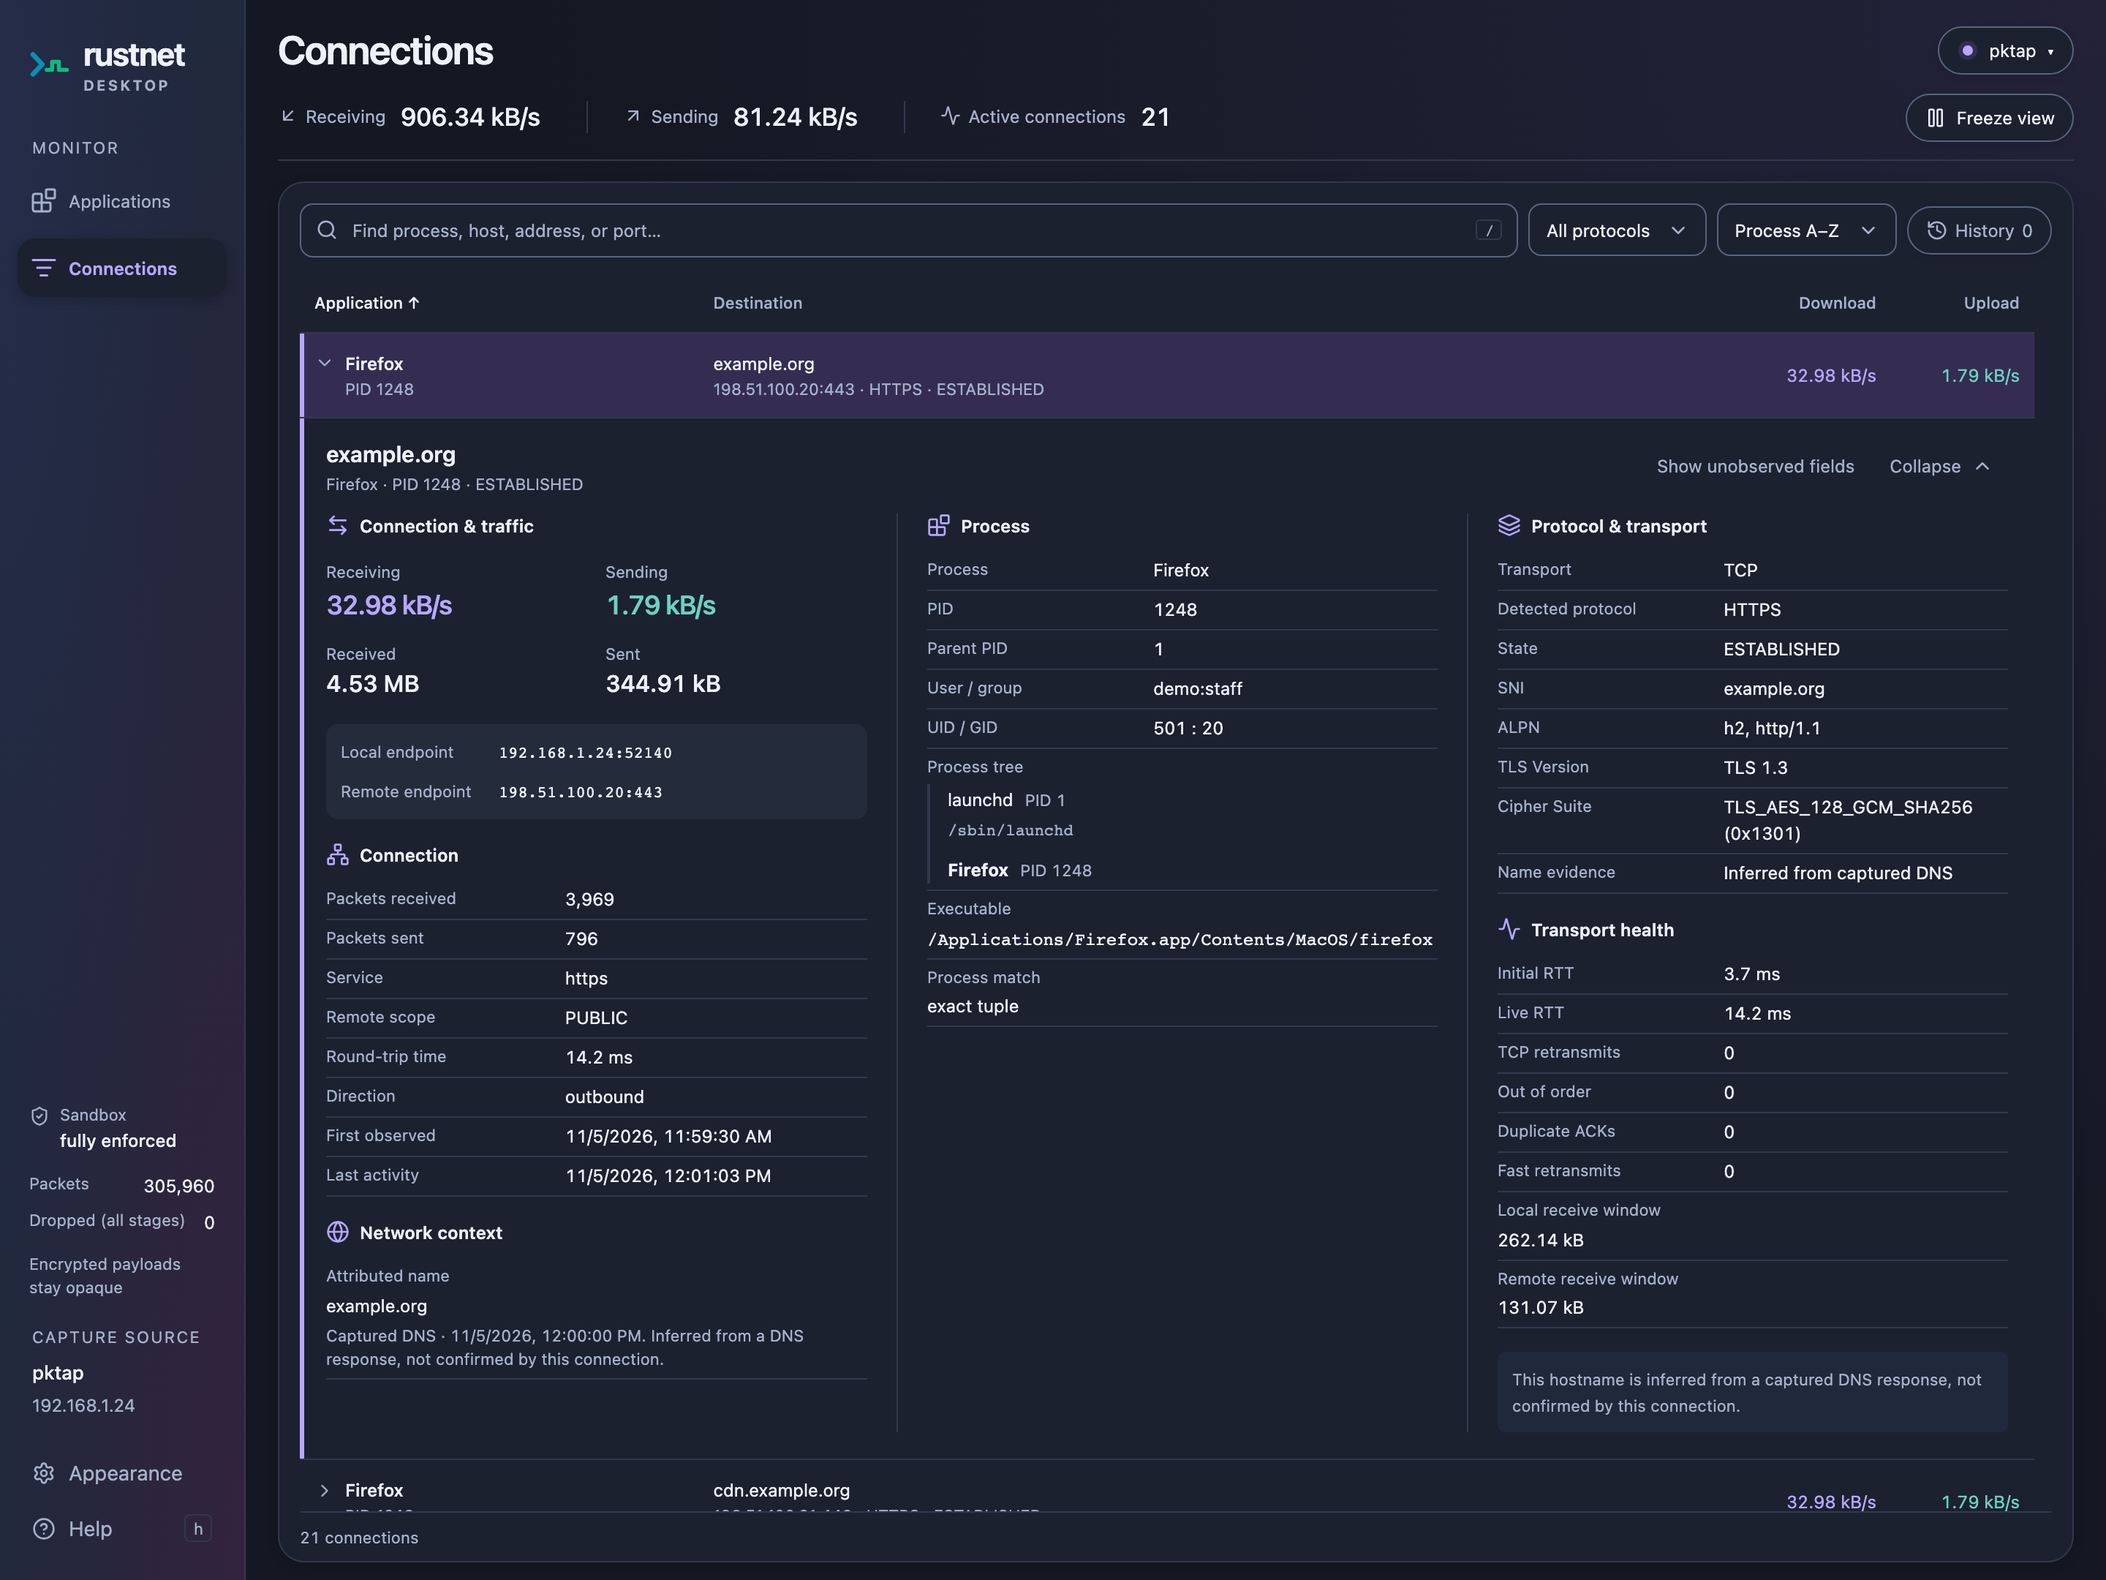
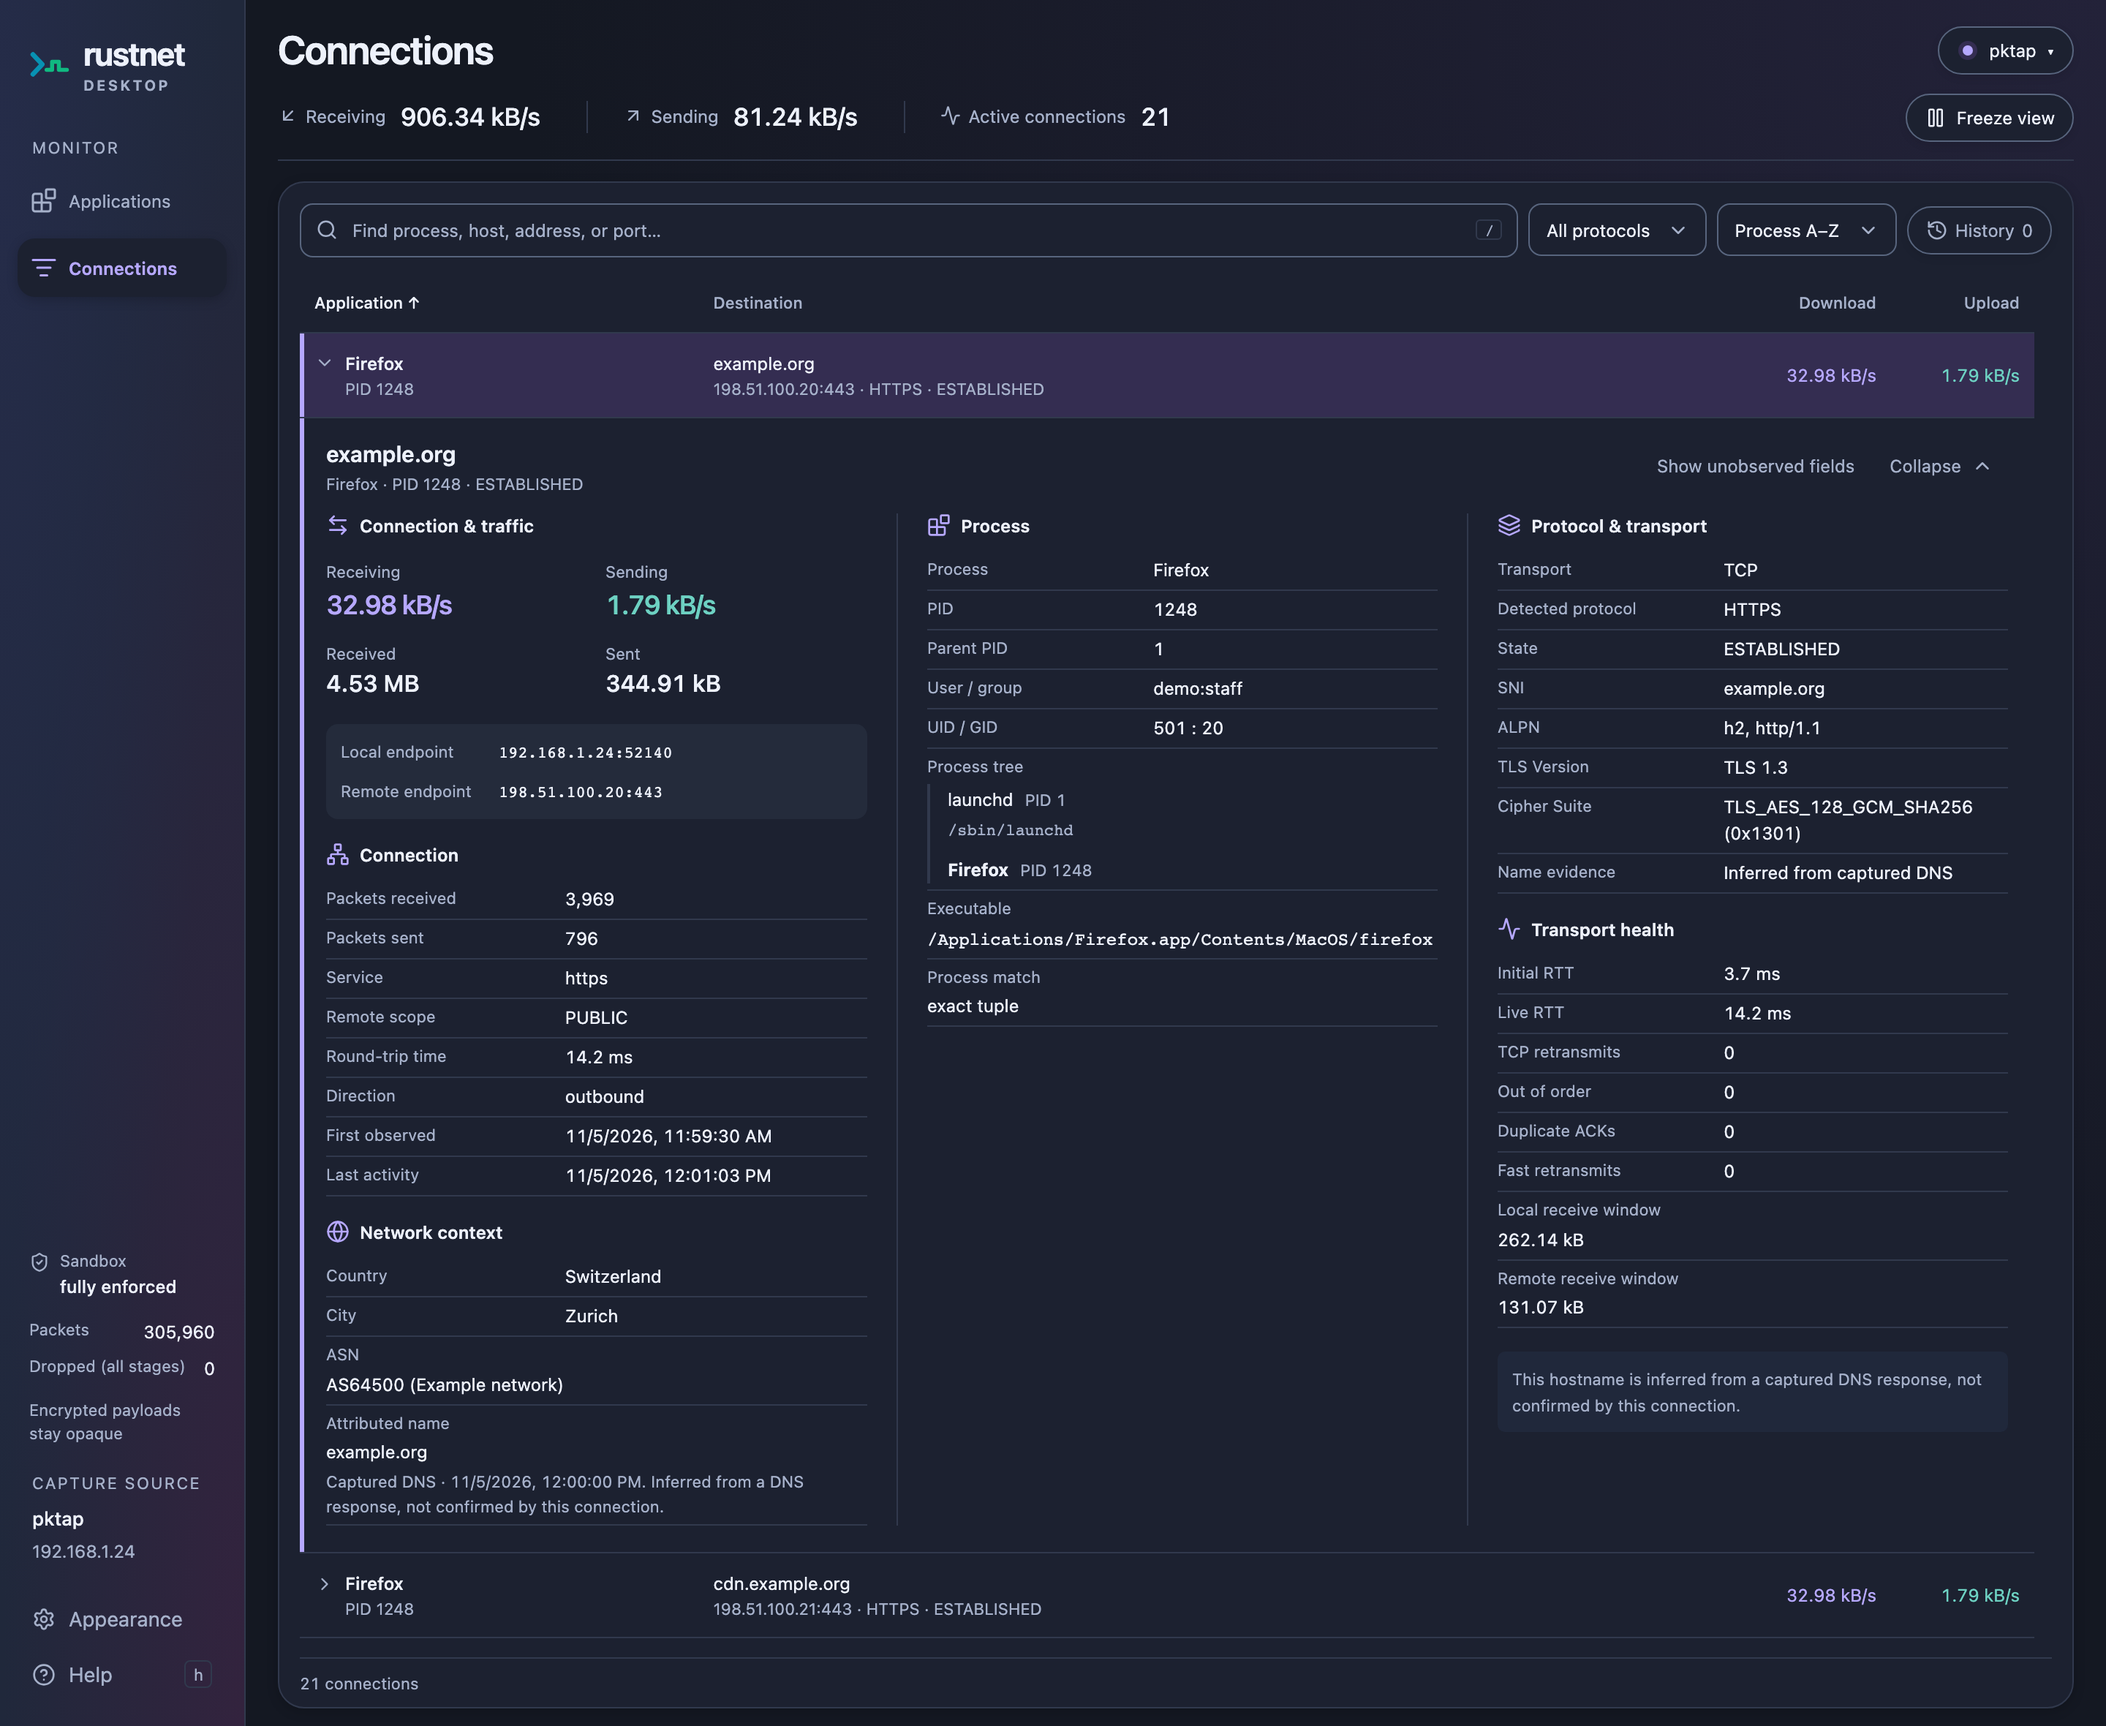
Show GeoIP details in README

diff --git a/README.ja.md b/README.ja.md
@@ -27,11 +27,11 @@
 <p align="center"><sub>Prism のライトテーマ。サンプル通信を使った Alpha プレビューです。</sub></p>
 
 <details>
-<summary>ダークテーマで接続の詳細を見る</summary>
+<summary>ダークテーマで接続の詳細と GeoIP 情報を見る</summary>
 
-![RustNet Desktop の Prism ダークテーマで、接続行の直下に通信量、プロセス、TLS、トランスポートの詳細を表示](docs/screenshots/connections-prism-dark.png)
+![RustNet Desktop の Prism ダークテーマで、接続行の直下に GeoIP の国、都市、ASN、プロセス、TLS 情報を表示](docs/screenshots/connections-prism-dark.png)
 
-<p align="center"><sub>接続行の直下で詳細を確認できます。サンプル通信を使った Alpha プレビューです。</sub></p>
+<p align="center"><sub>接続行の直下で通信量、TLS、GeoIP の国、都市、ネットワーク事業者を確認できます。サンプル通信と GeoIP データを使った Alpha プレビューです。</sub></p>
 
 </details>
 
@@ -45,9 +45,14 @@ Alpha プレビューでは、次の機能を利用できます。
 | 知りたいこと | 確認できる情報 |
 | --- | --- |
 | **どのアプリがネットワークを使っている？** | アプリ別のダウンロード・アップロード速度、アクティブ接続、直近 60 秒の通信グラフ。 |
-| **どこに接続している？** | プロセス、ホスト名、IP、ポート、プロトコルで検索できる接続一覧。任意の GeoIP データベースで位置情報も追加できます。 |
+| **どこに接続している？** | プロセス、ホスト名、IP、ポート、プロトコルで検索できる接続一覧。任意のローカル GeoIP データベースで、おおよその国・都市の位置情報とネットワーク事業者（ASN）を追加できます。 |
 | **接続で何が起きている？** | 接続行の直下に詳細を開き、エンジンが観測できる範囲で DNS、TLS、プロセスのメタデータ、通信の状態を確認できます。 |
 | **後から調査できる？** | 保持中の接続履歴を表示し、画面を一時停止したり、キャプチャ中に注釈付き PCAPNG を記録したりできます。 |
+
+**GeoIP 情報を追加：** キャプチャ設定の **Choose GeoIP folder** で GeoLite2
+データベースのフォルダーを選び、キャプチャを再開してください。macOS と Linux では
+`~/.local/share/rustnet/geoip/` のデータベースを自動検出します。ファイル名とその他の
+設定は [GeoIP の設定](docs/GUIDE.ja.md#geoip-データベース)を参照してください。
 
 デスクトップは通常ユーザーで動作し、キャプチャ権限はエンジンが使用します。
 キャプチャの内訳には、アプリを特定できない通信も表示します。プラットフォームごとの制限、

diff --git a/README.zh-CN.md b/README.zh-CN.md
@@ -27,11 +27,11 @@
 <p align="center"><sub>Prism 浅色界面。Alpha 预览版，使用示例流量。</sub></p>
 
 <details>
-<summary>查看深色模式下的连接详情</summary>
+<summary>查看深色模式下的连接详情与 GeoIP 信息</summary>
 
-![RustNet Desktop 的 Prism 深色界面，在连接行下方展开流量、进程、TLS 和传输详情](docs/screenshots/connections-prism-dark.png)
+![RustNet Desktop 的 Prism 深色界面，在连接行下方显示 GeoIP 国家、城市、ASN、进程和 TLS 信息](docs/screenshots/connections-prism-dark.png)
 
-<p align="center"><sub>直接在连接行下方查看详情。Alpha 预览版，使用示例流量。</sub></p>
+<p align="center"><sub>直接在连接行下方查看流量、TLS，以及 GeoIP 国家、城市和网络运营商信息。Alpha 预览版，使用示例流量与 GeoIP 数据。</sub></p>
 
 </details>
 
@@ -45,9 +45,14 @@ Alpha 预览版提供：
 | 想了解什么 | 可以查看什么 |
 | --- | --- |
 | **哪个应用正在使用网络？** | 各应用的下载与上传速率、活跃连接，以及最近 60 秒的流量图。 |
-| **它正在连接哪里？** | 可搜索的连接列表，包含进程、主机名、IP、端口和协议信息。可选的 GeoIP 数据库提供地理位置参考。 |
+| **它正在连接哪里？** | 可搜索的连接列表，包含进程、主机名、IP、端口和协议信息。可选的本地 GeoIP 数据库提供大致的国家、城市位置及网络运营商（ASN）信息。 |
 | **连接上发生了什么？** | 在连接行下方展开详情，在引擎能够观测的范围内查看 DNS、TLS、进程元数据和传输健康信息。 |
 | **能否留待后续分析？** | 浏览保留的历史连接、冻结视图，或在抓包期间录制带注释的 PCAPNG 文件。 |
+
+**添加 GeoIP 信息：** 在抓包设置中点击 **Choose GeoIP folder**，选择 GeoLite2
+数据库所在目录，然后重新开始抓包。在 macOS 和 Linux 上，应用会自动发现
+`~/.local/share/rustnet/geoip/` 中的数据库。文件名及其他选项见
+[GeoIP 配置](docs/GUIDE.zh-CN.md#geoip-数据库)。
 
 桌面应用以普通用户运行，抓包权限由引擎使用。覆盖统计也会展示无法归属到应用的流量。
 各平台的限制、权限和计数含义见[指南](docs/GUIDE.zh-CN.md)。

diff --git a/README.md b/README.md
@@ -27,11 +27,11 @@
 <p align="center"><sub>The Prism interface in light mode. Alpha preview with sample traffic.</sub></p>
 
 <details>
-<summary>Connection details in dark mode</summary>
+<summary>Connection details and GeoIP in dark mode</summary>
 
-![RustNet Desktop's Prism interface in dark mode, showing a connection's traffic, process, TLS, and transport details inline](docs/screenshots/connections-prism-dark.png)
+![RustNet Desktop's Prism interface in dark mode, showing inline connection details with GeoIP country, city, ASN, process, and TLS information](docs/screenshots/connections-prism-dark.png)
 
-<p align="center"><sub>Inspect a connection directly beneath its row. Alpha preview with sample traffic.</sub></p>
+<p align="center"><sub>Inspect traffic, TLS, and GeoIP country, city, and network operator directly beneath a connection. Alpha preview with sample traffic and GeoIP data.</sub></p>
 
 </details>
 
@@ -46,9 +46,14 @@ The alpha preview includes:
 | What you want to know | What you can explore |
 | --- | --- |
 | **Which app is using the network?** | Per-application download and upload rates, active connections, and 60-second traffic charts. |
-| **Where is it connecting?** | Searchable connections with process, hostname, IP, port, and protocol details. Optional GeoIP databases add location context. |
+| **Where is it connecting?** | Searchable connections with process, hostname, IP, port, and protocol details. Optional local GeoIP databases add approximate country/city location and network operator (ASN). |
 | **What is happening on a connection?** | Expand inline details to inspect DNS, TLS, process metadata, and transport health where the engine can observe them. |
 | **Can I investigate it later?** | Browse retained connections, freeze the view, or record annotated PCAPNG files during capture. |
+
+**Add GeoIP context:** In capture settings, select **Choose GeoIP folder** and
+choose your GeoLite2 database folder, then restart capture. On macOS and Linux,
+`~/.local/share/rustnet/geoip/` is discovered automatically. See
+[GeoIP setup](docs/GUIDE.md#geoip-databases) for database filenames and options.
 
 The desktop runs as your regular user; capture permissions belong to the engine.
 Capture coverage makes unattributed traffic visible too. See the
